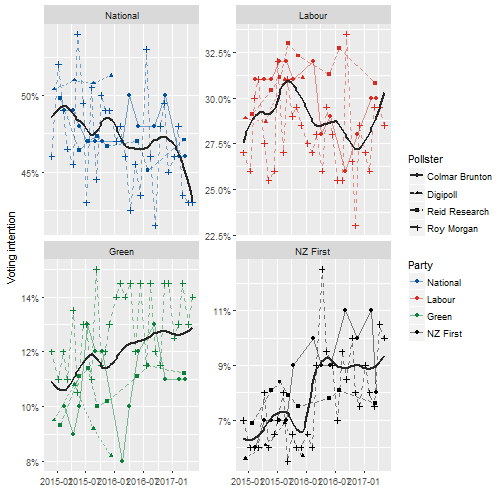
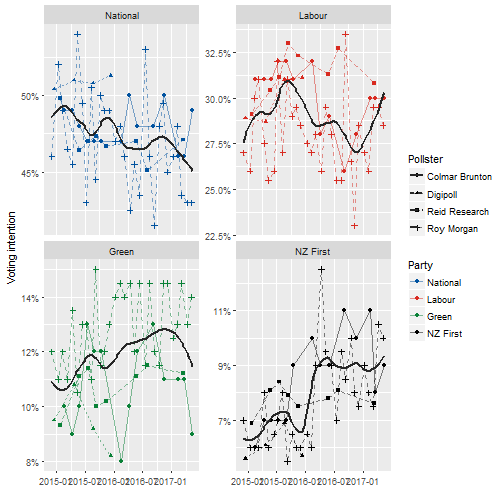
add another poll (Colmar Brunton)

diff --git a/pkg1/inst/doc/README.html b/pkg1/inst/doc/README.html
@@ -254,7 +254,7 @@ polls %&gt;%
 <span class="st">    </span><span class="kw">scale_x_date</span>(<span class="st">&quot;&quot;</span>) +
 <span class="st">    </span><span class="kw">facet_wrap</span>(~Party, <span class="dt">scales =</span> <span class="st">&quot;free_y&quot;</span>) </code></pre></div>
 <pre><code>## `geom_smooth()` using method = 'loess'</code></pre>
[2 lines of base64/hex data omitted]
 <p>Note that it is not appropriate to frequently update the version of <code>nzelect</code> on CRAN, so polling data will generally be out of date. The development version of <code>nzelect</code> from GitHub will be kept more up to date (but no promises exactly how much).</p>
 </div>
 <div id="usage---convenience-functions" class="section level2">
@@ -322,14 +322,14 @@ polls %&gt;%
 <pre><code>## # A tibble: 9 × 5
 ##           Party pundit_perc curia_perc pundit_seats curia_seats
 ##           &lt;chr&gt;       &lt;dbl&gt;      &lt;dbl&gt;        &lt;dbl&gt;       &lt;dbl&gt;
-## 1           ACT         0.7        0.5            1           1
-## 2  Conservative         0.2        0.0            0           0
-## 3         Green        13.1       14.0           16          17
-## 4        Labour        29.1       28.5           36          35
-## 5          Mana         0.3        0.5            0           0
-## 6         Maori         1.6        1.5            2           2
-## 7      National        44.0       43.0           54          53
-## 8      NZ First         9.4       10.0           11          12
+## 1           ACT         0.8        0.8            1           1
+## 2  Conservative         0.1        0.0            0           0
+## 3         Green        11.6       10.6           14          13
+## 4        Labour        29.4       29.5           36          36
+## 5          Mana         0.2        0.2            0           0
+## 6         Maori         1.4        1.2            2           1
+## 7      National        45.9       47.0           56          58
+## 8      NZ First         9.3        9.3           11          11
 ## 9 United Future         0.1        0.0            1           1</code></pre>
 </div>
 </div>

diff --git a/pkg2/inst/doc/README.html b/pkg2/inst/doc/README.html
@@ -118,7 +118,7 @@ REGC2013$region &lt;-<span class="st"> </span><span class="kw">gsub</span>(<span
   (function () {
     var script = document.createElement("script");
     script.type = "text/javascript";
-    script.src  = "https://cdn.mathjax.org/mathjax/latest/MathJax.js?config=TeX-AMS-MML_HTMLorMML";
+    script.src  = "https://mathjax.rstudio.com/latest/MathJax.js?config=TeX-AMS-MML_HTMLorMML";
     document.getElementsByTagName("head")[0].appendChild(script);
   })();
 </script>
